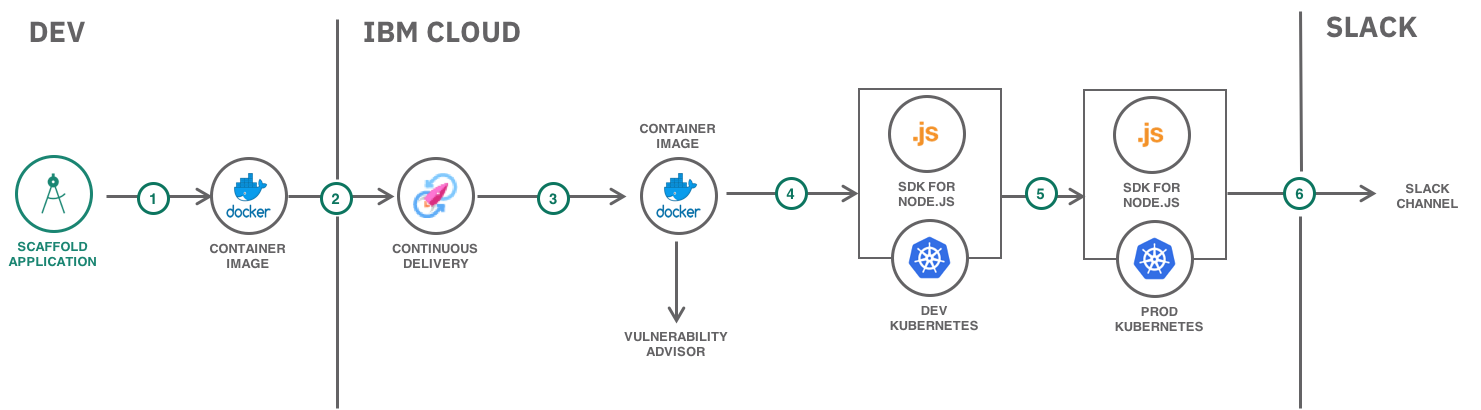
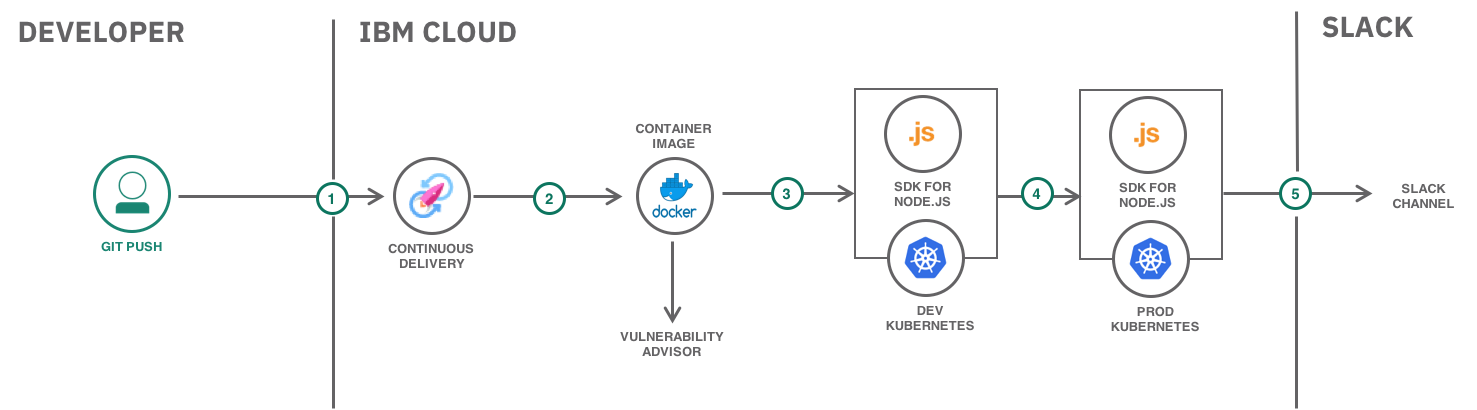
Solution updates as per the review #757

diff --git a/continuous-deployment-to-kubernetes.md b/continuous-deployment-to-kubernetes.md
@@ -31,10 +31,25 @@ This tutorial walks you through setting up a continuous integration and delivery
 * Deploy to production cluster
 * Security using Vulnerability Advisor 
 * Setup Slack notifications 
+* Clean up resources
+
+
 
 ![](images/solution21/Architecture.png)
 
+1. Push code to a private Git repository.
+
+2. Continuous delivery service picks up latest Git push and deploy to a private container image. 
+
+3. Private docker image deployed to a development Kubernetes cluster.
+
+4. Dev branch then pushes to a production cluster.
+
+5. Slack notifications setup for each deployment activities
+
+
 ## Prerequisites
+
 {: #prereq}
 
 * [Container registry with namespace configured](https://console.bluemix.net/docs/services/Registry/registry_setup_cli_namespace.html)
@@ -44,14 +59,12 @@ This tutorial walks you through setting up a continuous integration and delivery
 ## Create a Kubernetes cluster
 {: #step1}
 
-1. Create **Containers in Kubernetes Clusters** from the [{{site.data.keyword.Bluemix}} catalog](https://console.bluemix.net/containers-kubernetes/launch) and choose the **Lite plan or the paid plan** cluster.
-  {:tip}
-   ![Kubernetes Cluster Creation on IBM Cloud](images/solution21/KubernetesPaidClusterCreation.png)
+1. Create **Containers in Kubernetes Clusters** from the [{{site.data.keyword.Bluemix}} catalog](https://console.bluemix.net/containers-kubernetes/launch) and choose the **Pay-As-You_Go** cluster. Paid account is needed to complete the full tutorial.
 2. For convenience, use the name `dev-cluster` to be consistent with this tutorial.
 3. The smallest **Machine Type** with 1 **Worker Nodes** is sufficient for this tutorial. Leave all other options set to defaults.
 4. Check the status of your **Cluster** and **Worker Nodes** and wait for them to be **ready**.
 
-**NOTE:** Do not proceed until your workers are ready. This might take up to one hour.
+**NOTE:** Do not proceed until your workers are ready. 
 
 ## Create a starter application
 
@@ -72,9 +85,11 @@ IBM Cloud offers a selection of starter applications, these starter applications
    4.  Once the deploy stages completed, click on the **View logs and history** to see the logs.
    5. Visit the URL displayed to access the application by `http://worker-public-ip:portnumber/`. ![](images/solution21/Logs.png)
 
+      In the example above we used the dashboard to create the starter applications but we could create the same using the `bx dev`command in the terminal.  The `bx dev` tooling greatly cuts down on development time by generating application starters with all the necessary boilerplate, build and configuration code so that you can start coding business logic faster. 
+
 ## Clone, build and run the application locally
 
-In this step, you set up a git source control repository, clone the repo, then make some modifications and build/run the application locally.  
+In this step, you will clone the repo, then make some modifications and build/run the application locally.  
 
 ### Clone the application
 1. Select the **Git** tile under **Code**. You're then directed to your git repository page. ![HelloWorld](images/solution21/DevOps_Toolchain.png)
@@ -208,7 +223,37 @@ Deploying manually is one option here giving you a chance to validate your chang
 8. From now on, whenever your toolchain executes, You should see slack notifications in the channel you configured.
     ![](images/solution21/slack_channel.png)
 
-## Related Content
+
+
+## Clean up resources
+
+{: #cleanupresources}
+
+In this step, you will clean up the resources to remove what you created above. 
+
+- Delete the Git repository 
+- Delete the toolchain
+- Delete the two clusters 
+- Delete the Slack channel
+
+## Expand the Tutorial
+
+{: #expandTutorial}
+
+Do you want to learn more? Here are some ideas of what you can do next:
+
+- [Analyze logs and monitor the health of Kubernetes applications using Kibana and Grafana](kubernetes-log-analysis-kibana.html).
+- Add a testing environment and deploy it to a 3rd cluster. 
+- Deploy the production cluster [across multiple regions](multi-region-webapp.html).
+
+## Related Content 
+
+{: #relatedContent}
 
 * [Security](https://console.bluemix.net/docs/containers/cs_secure.html#cluster) for IBM Cloud Container Service.
+
 * Configuring tool [integrations](https://console.bluemix.net/docs/services/ContinuousDelivery/toolchains_integrations.html#integrations).
+
+* Analyze logs and monitor the health of Kubernetes applications using [Kibana and Grafana](kubernetes-log-analysis-kibana.html).
+
+  
